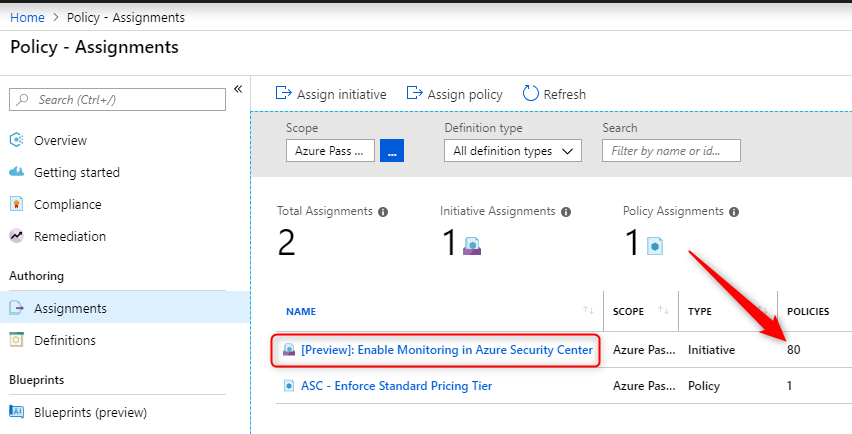
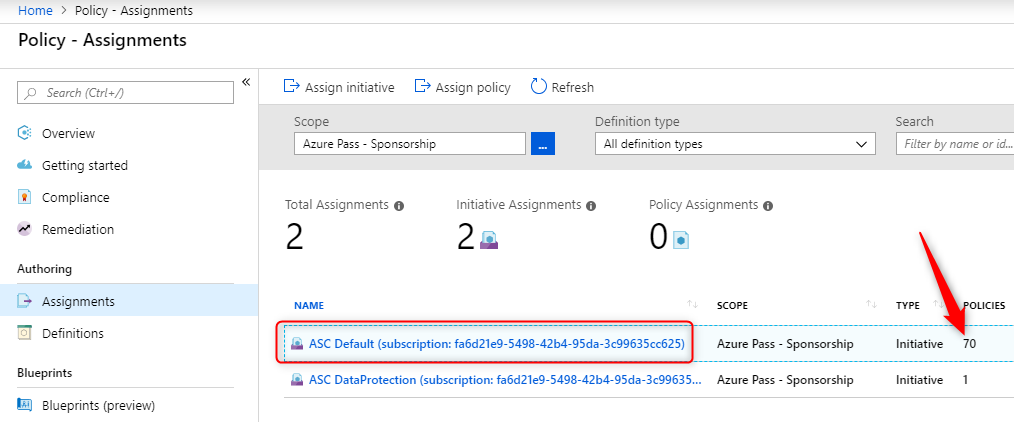
Update

diff --git a/Labs/03 - Policy and Compliance/README.md b/Labs/03 - Policy and Compliance/README.md
@@ -27,8 +27,8 @@ This exercise guides you through the current Security Center policies, based on 
 ![alt text](https://raw.githubusercontent.com/tianderturpijn/Azure-Security-Center/master/Labs/03%20-%20Policy%20and%20Compliance/Screenshots/search_policy.png
 )<br><br>
 
-2. Click on **Assignments** (under Authoring)
-3. Notice the 80 policy definitions under that initiative. Click on the **[Preview]: Enable Monitoring in Azure Security Center** initiative:<br><br>
+2. Click on **Assignments** (under **Authoring**)
+3. Notice the ~70 (or more, this is work in progress) policy definitions under the **ASC Default** initiative. Click on the initiative:<br><br>
 ![alt text](https://raw.githubusercontent.com/tianderturpijn/Azure-Security-Center/master/Labs/03%20-%20Policy%20and%20Compliance/Screenshots/policy_assignment.png
 )<br><br>
 4. Clicking on the initiative allows you to disable the definition:
